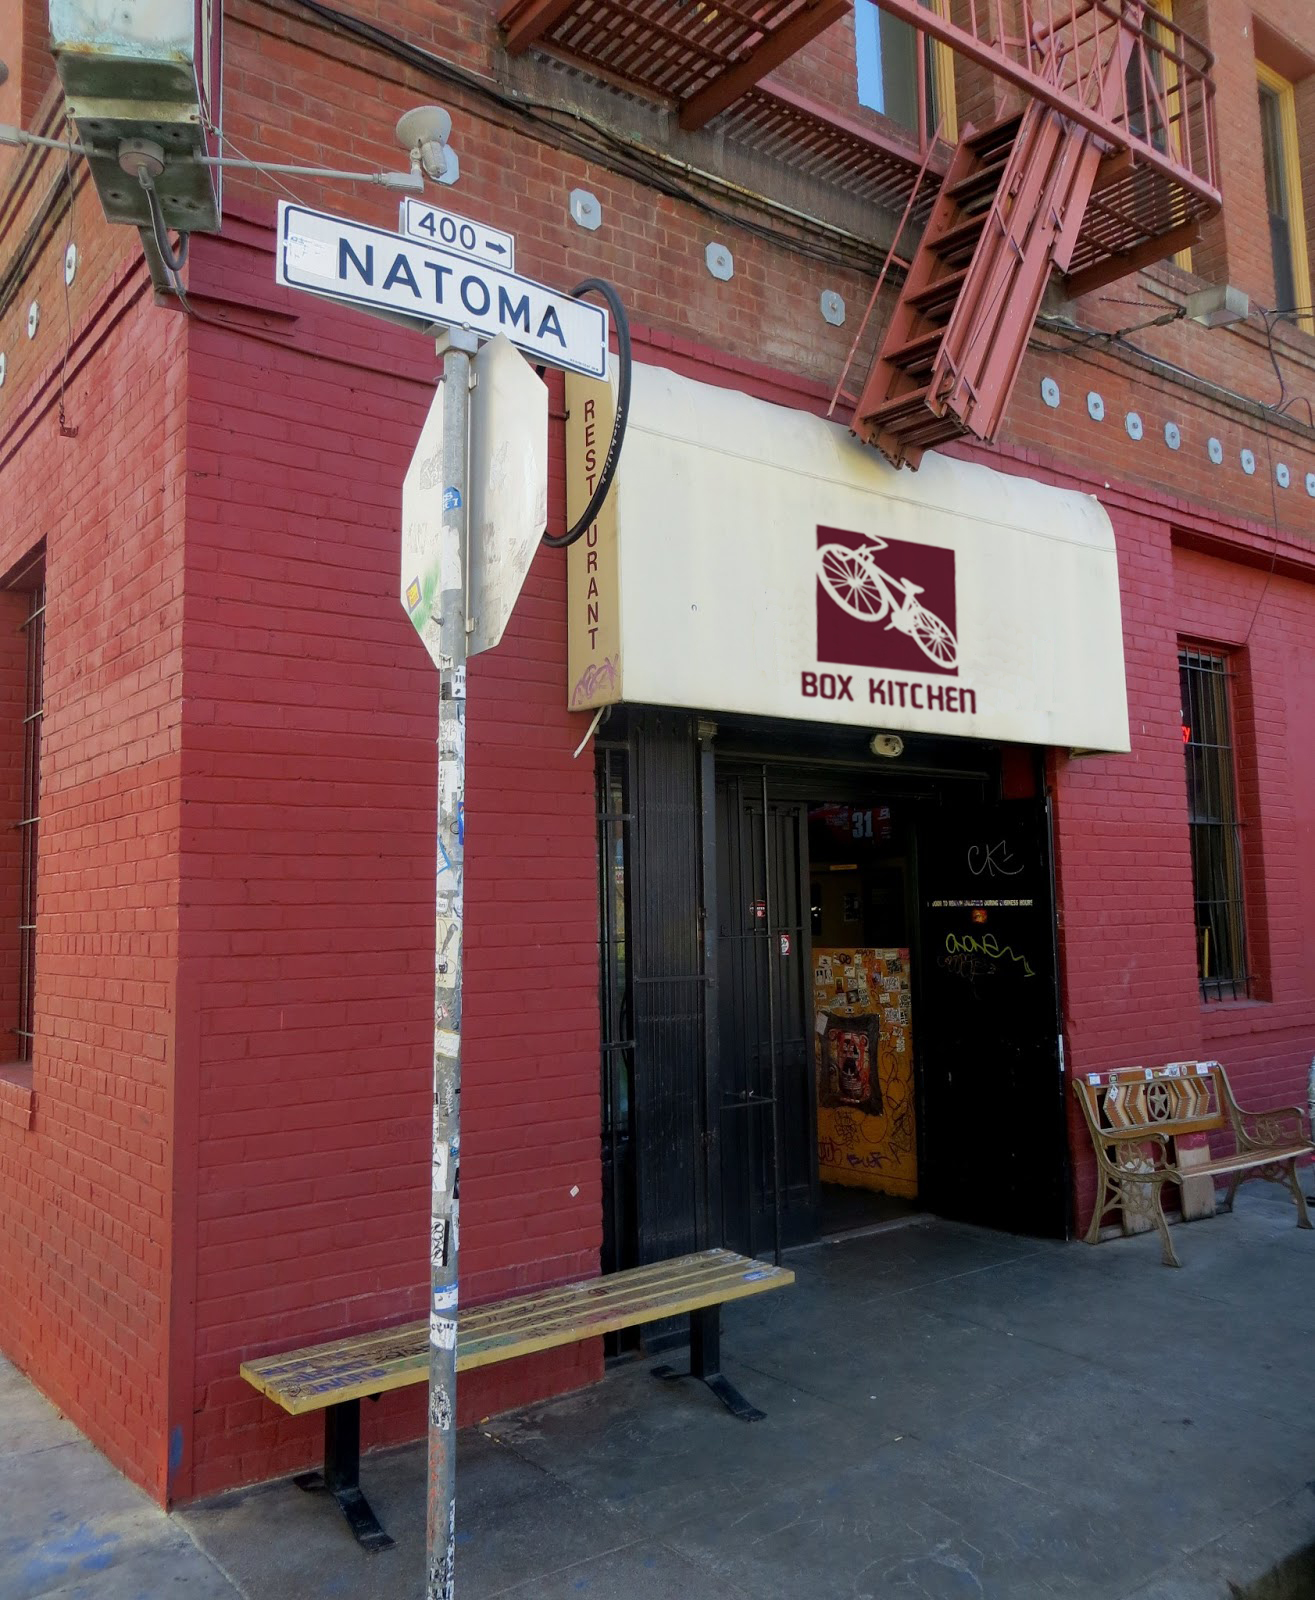
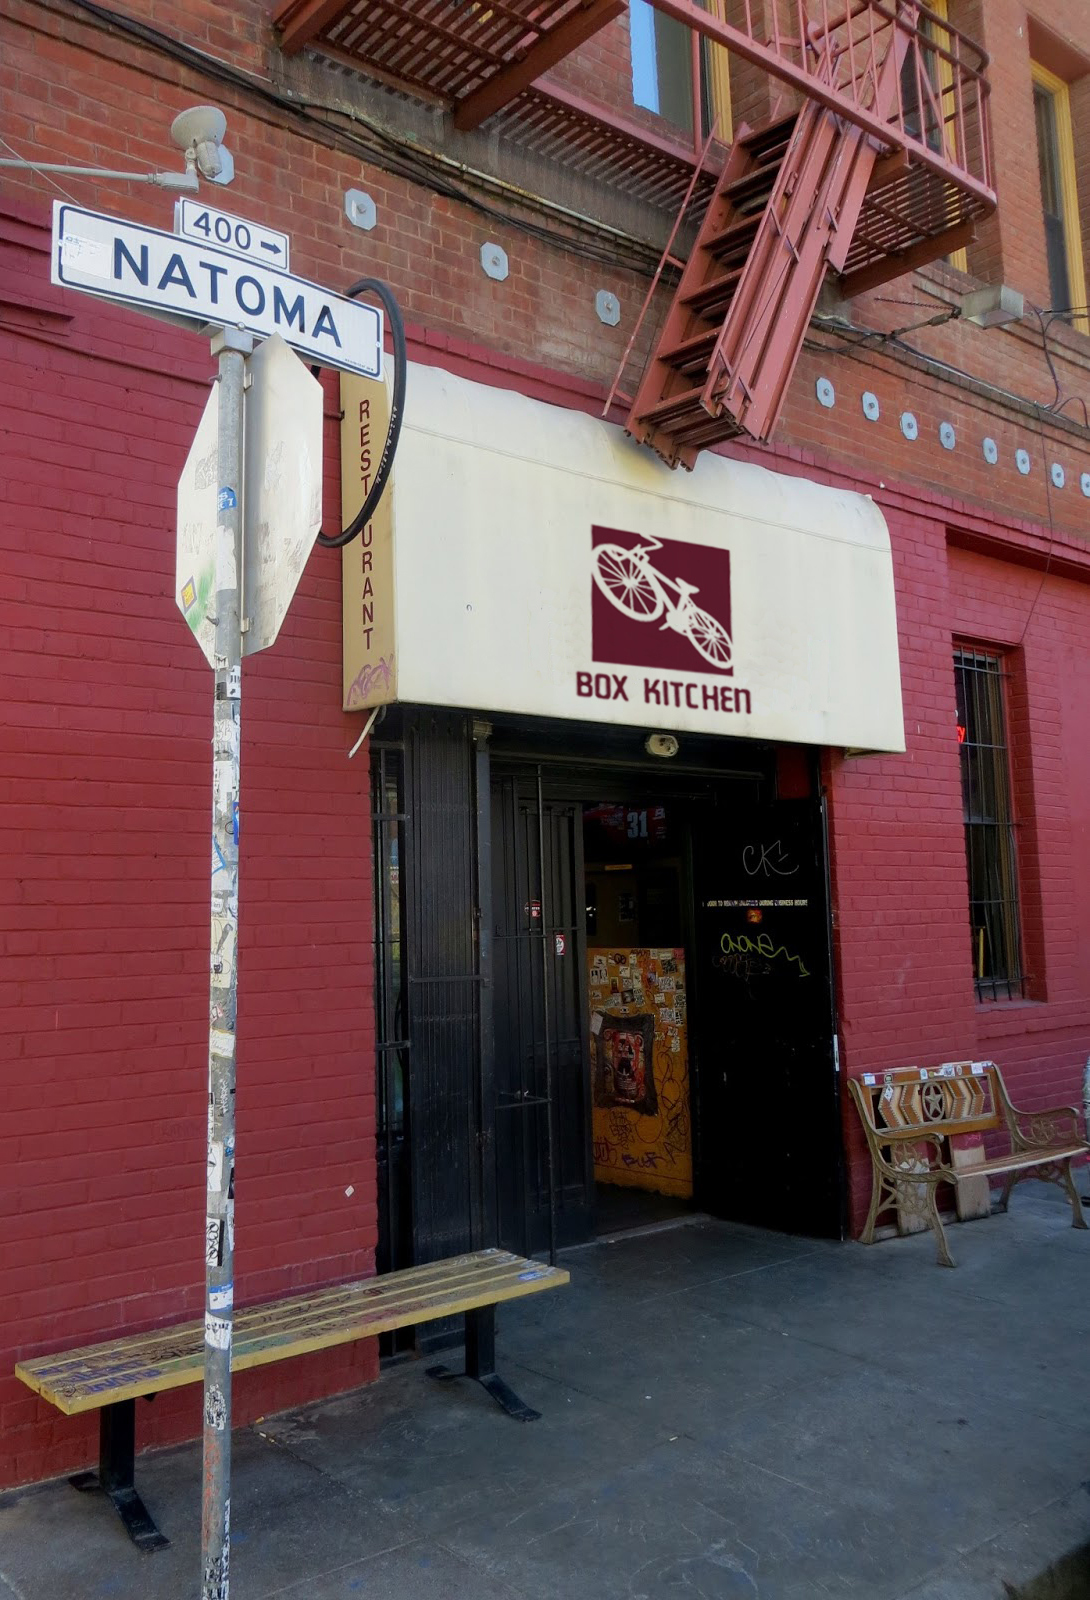
edit
fixed pic sizes

diff --git a/boxkitchen.html b/boxkitchen.html
@@ -35,10 +35,10 @@ The walls of Tempest are littered with stickers. The packaging of Box Kitchen is
 
 <div id="image">
 <img width="350px" src="images/bk/bklogo.jpg" style="margin-top: 10px; margin-bottom: 10px;">
-<img width="650px" src="images/bk/boxout.jpg" style="margin-top: 10px; margin-bottom: 10px;"/>
-<img width="650px" src="images/bk/boxout2.jpg" style="margin-top: 10px; margin-bottom: 10px;"/>
-<img width="650px" src="images/bk/takeout.jpg" style="margin-top: 10px; margin-bottom: 10px;"/>
-<img width="650px" src="images/bk/box.jpg" style="margin-top: 10px; margin-bottom: 10px;"/>
+<img width="450px" src="images/bk/boxout.jpg" style="margin-top: 10px; margin-bottom: 10px;"/>
+<img width="450px" src="images/bk/boxout2.jpg" style="margin-top: 10px; margin-bottom: 10px;"/>
+<img width="450px" src="images/bk/takeout.jpg" style="margin-top: 10px; margin-bottom: 10px;"/>
+<img width="450px" src="images/bk/box.jpg" style="margin-top: 10px; margin-bottom: 10px;"/>
 
 
 </div>

diff --git a/21pics.html b/21pics.html
@@ -32,7 +32,7 @@ symbolize sexuality and vulnerability.
 
 <div id="image">
 <img width="500px" height="750px" src="images/21pics/21pics.png"/>
-<img width="850px" height="650px" src="images/21pics/ad1.jpg"/>
+<img width="540px" height="650px" src="images/21pics/ad1.jpg"/>
 </div>
 
 
